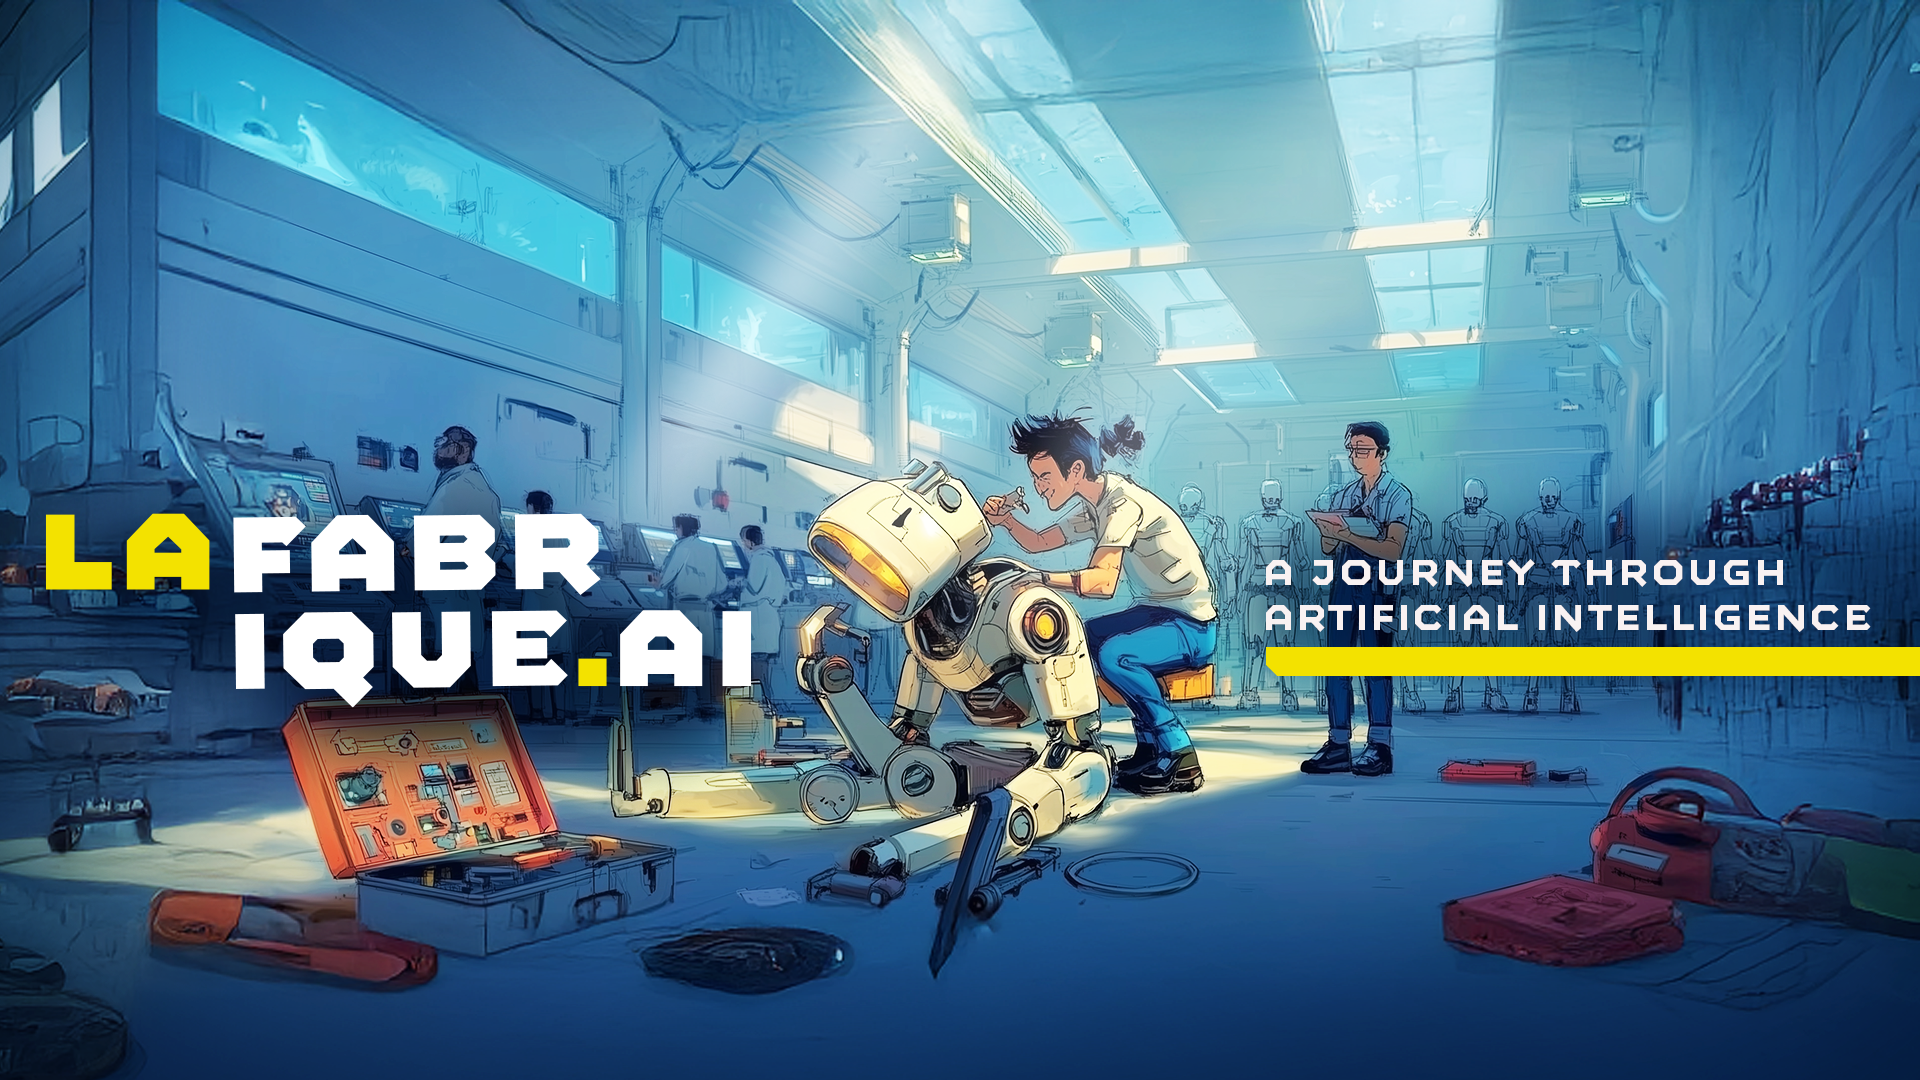
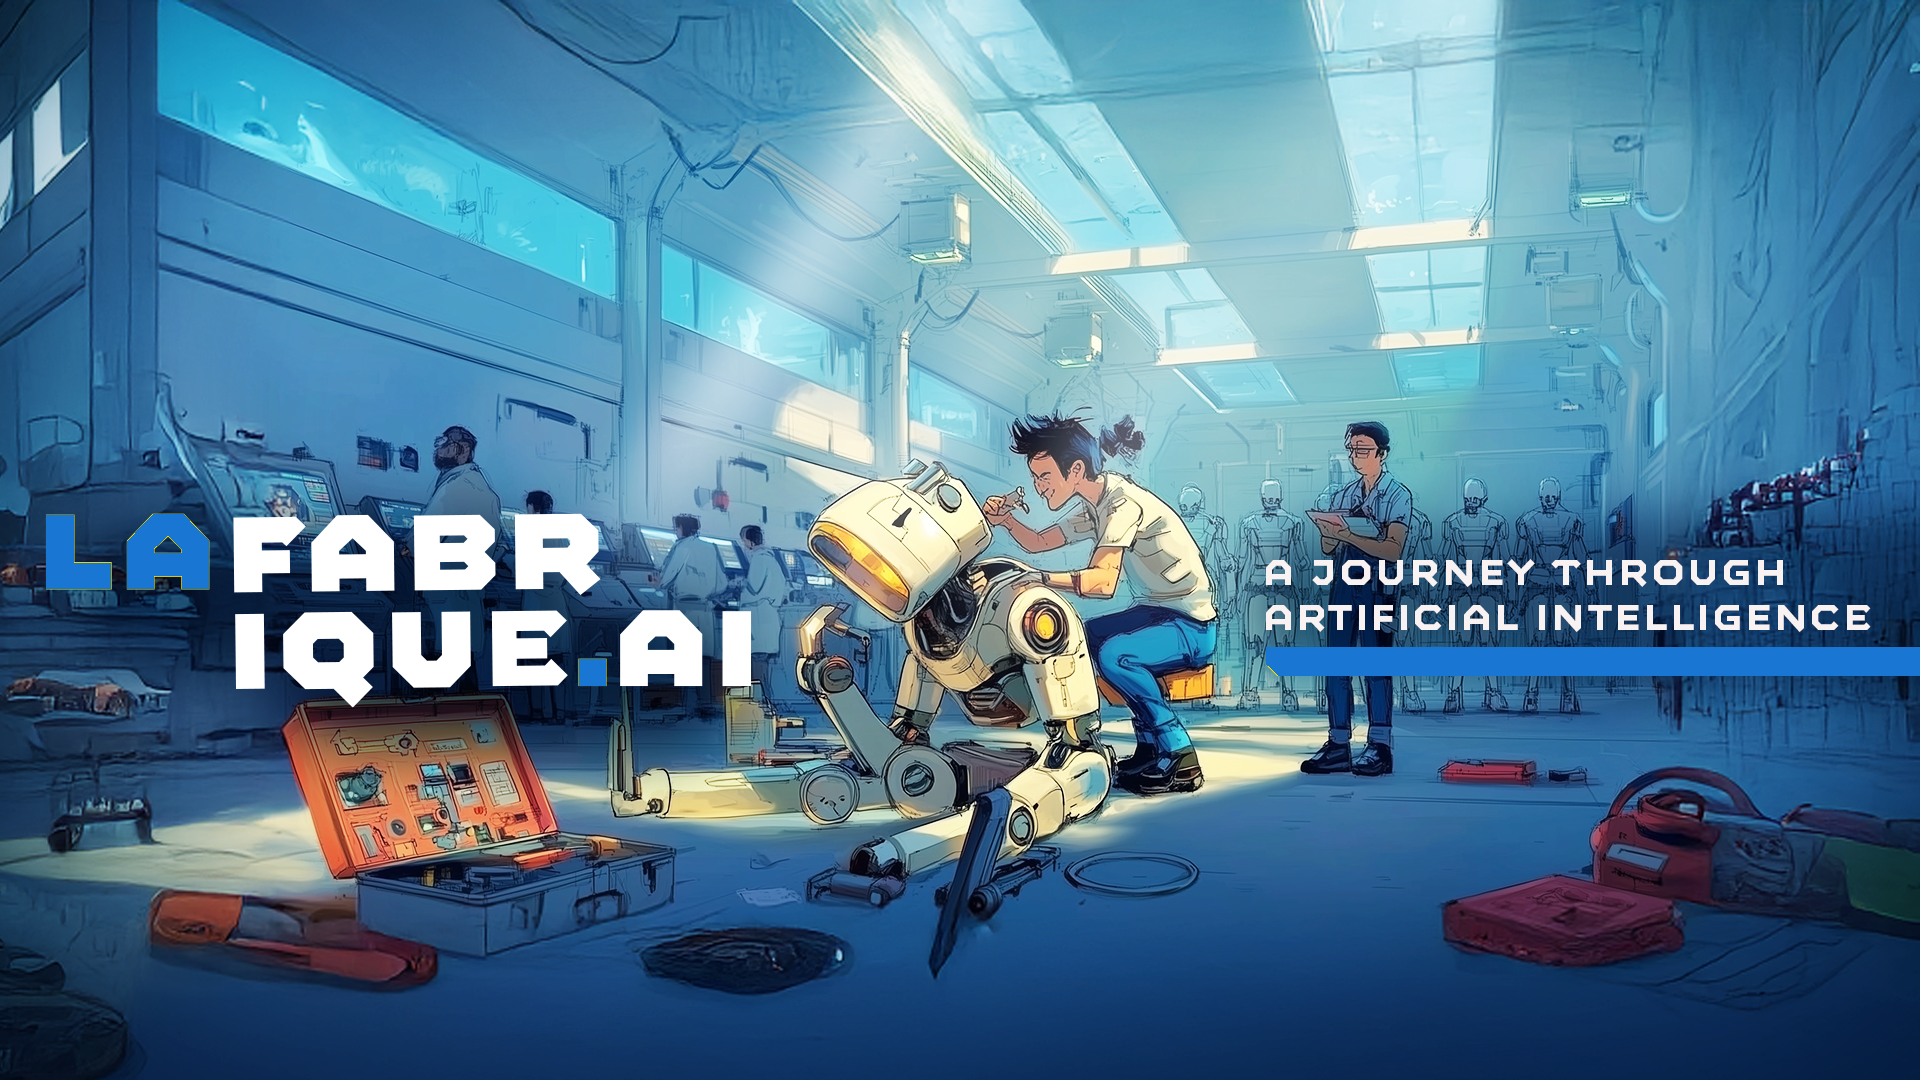
Add Goldman font and theme-colored accents
- Import Goldman font from Google Fonts
- Apply Goldman to hero title and description
- Color "La" and "." in site name with theme color
- Color site description with theme color
- Update site name to LAFABRIQUE.AI

Changed region(s): [[0.6562, 0.5806, 1.0, 0.6417], [0.0, 0.4583, 0.125, 0.55], [0.2812, 0.6111, 0.3125, 0.6417]]

diff --git a/docs/stylesheets/extra.css b/docs/stylesheets/extra.css
@@ -1,4 +1,10 @@
 /* ========================================
+   Google Fonts Import
+   ======================================== */
+
+@import url('https://fonts.googleapis.com/css2?family=Goldman:wght@400;700&display=swap');
+
+/* ========================================
    Theme Color Schemes
    ======================================== */
 
@@ -142,20 +148,26 @@ html:not([data-theme]) .mdx-hero__banner[data-banner="blue"] {
 }
 
 .mdx-hero__content h1 {
+  font-family: 'Goldman', sans-serif;
   font-size: 4rem;
   font-weight: 700;
   color: white;
   margin: 0 0 1rem 0;
   text-shadow: 0 4px 20px rgba(0, 0, 0, 0.5);
-  letter-spacing: -0.02em;
+  letter-spacing: 0.05em;
+}
+
+.mdx-hero__content h1 .theme-accent {
+  color: var(--md-primary-fg-color);
 }
 
 .mdx-hero__content p {
+  font-family: 'Goldman', sans-serif;
   font-size: 1.5rem;
-  font-weight: 300;
-  color: rgba(255, 255, 255, 0.9);
+  font-weight: 400;
+  color: var(--md-primary-fg-color);
   margin: 0 0 2.5rem 0;
-  text-shadow: 0 2px 10px rgba(0, 0, 0, 0.5);
+  text-shadow: 0 2px 10px rgba(0, 0, 0, 0.3);
 }
 
 .mdx-hero__content .md-button {

diff --git a/overrides/home.html b/overrides/home.html
@@ -31,7 +31,7 @@
       <img src="assets/images/3.png" alt="" class="mdx-hero__banner" data-banner="yellow" draggable="false">
     </div>
     <div class="mdx-hero__content">
-      <h1>LaFabrique.AI</h1>
+      <h1><span class="theme-accent">La</span>Fabrique<span class="theme-accent">.</span>AI</h1>
       <p>A Journey Through Artificial Intelligence</p>
       <a href="{{ page.next_page.url | url }}" class="md-button md-button--primary">
         Get Started
